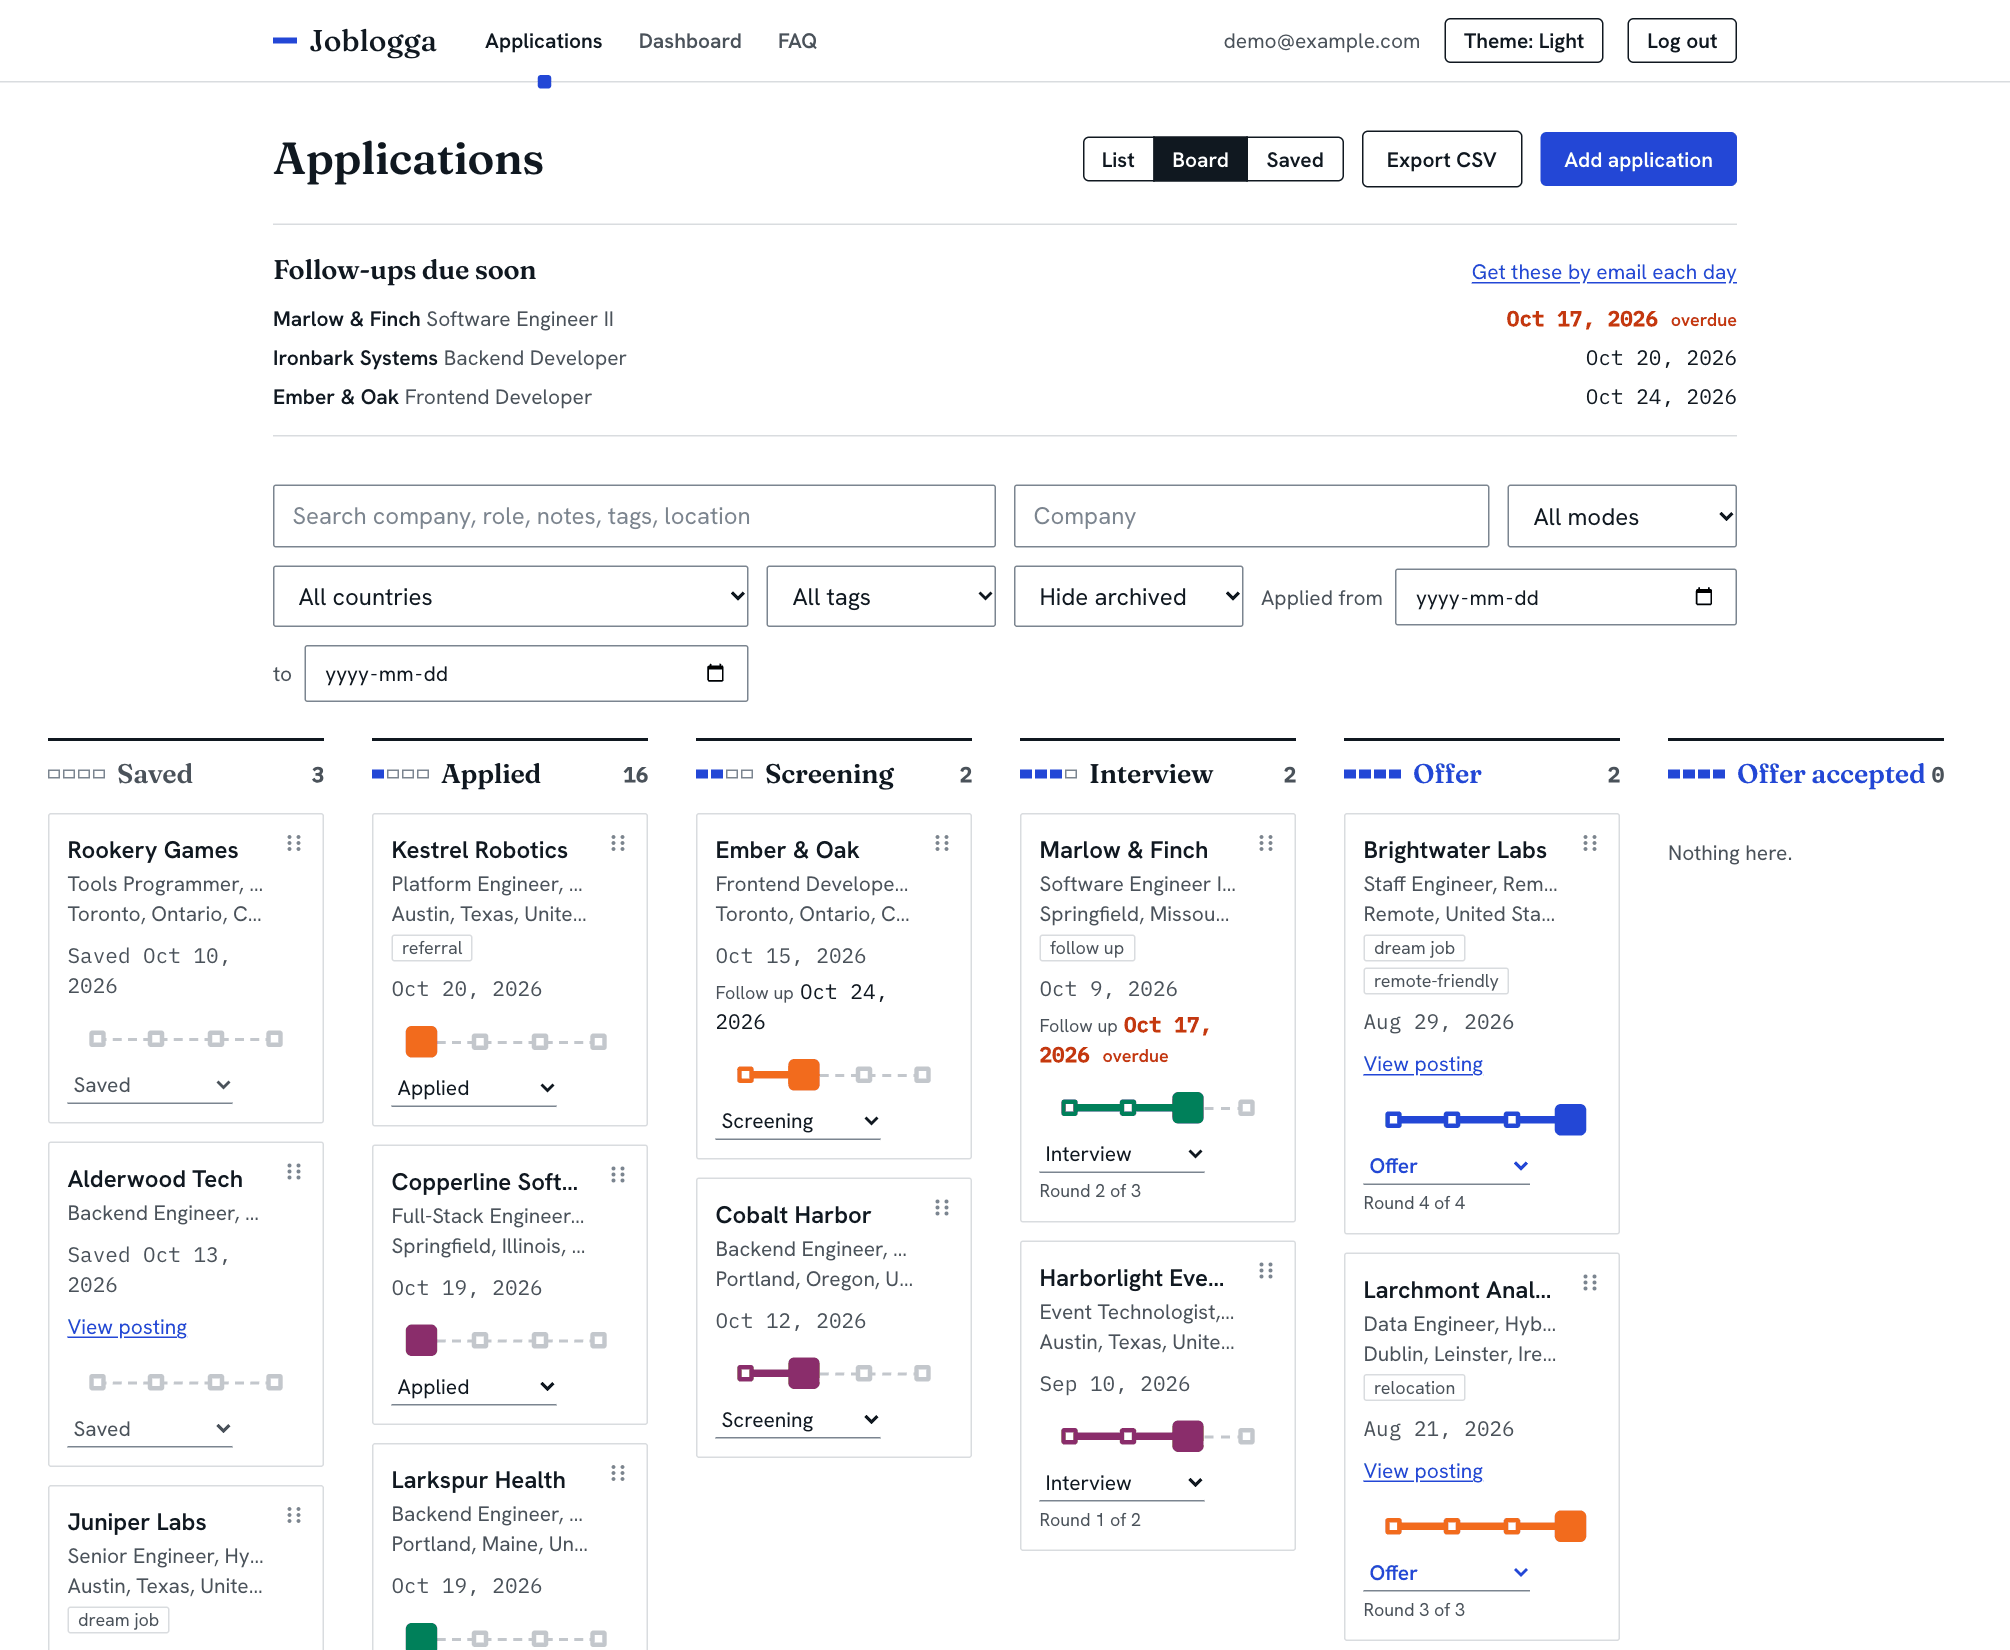
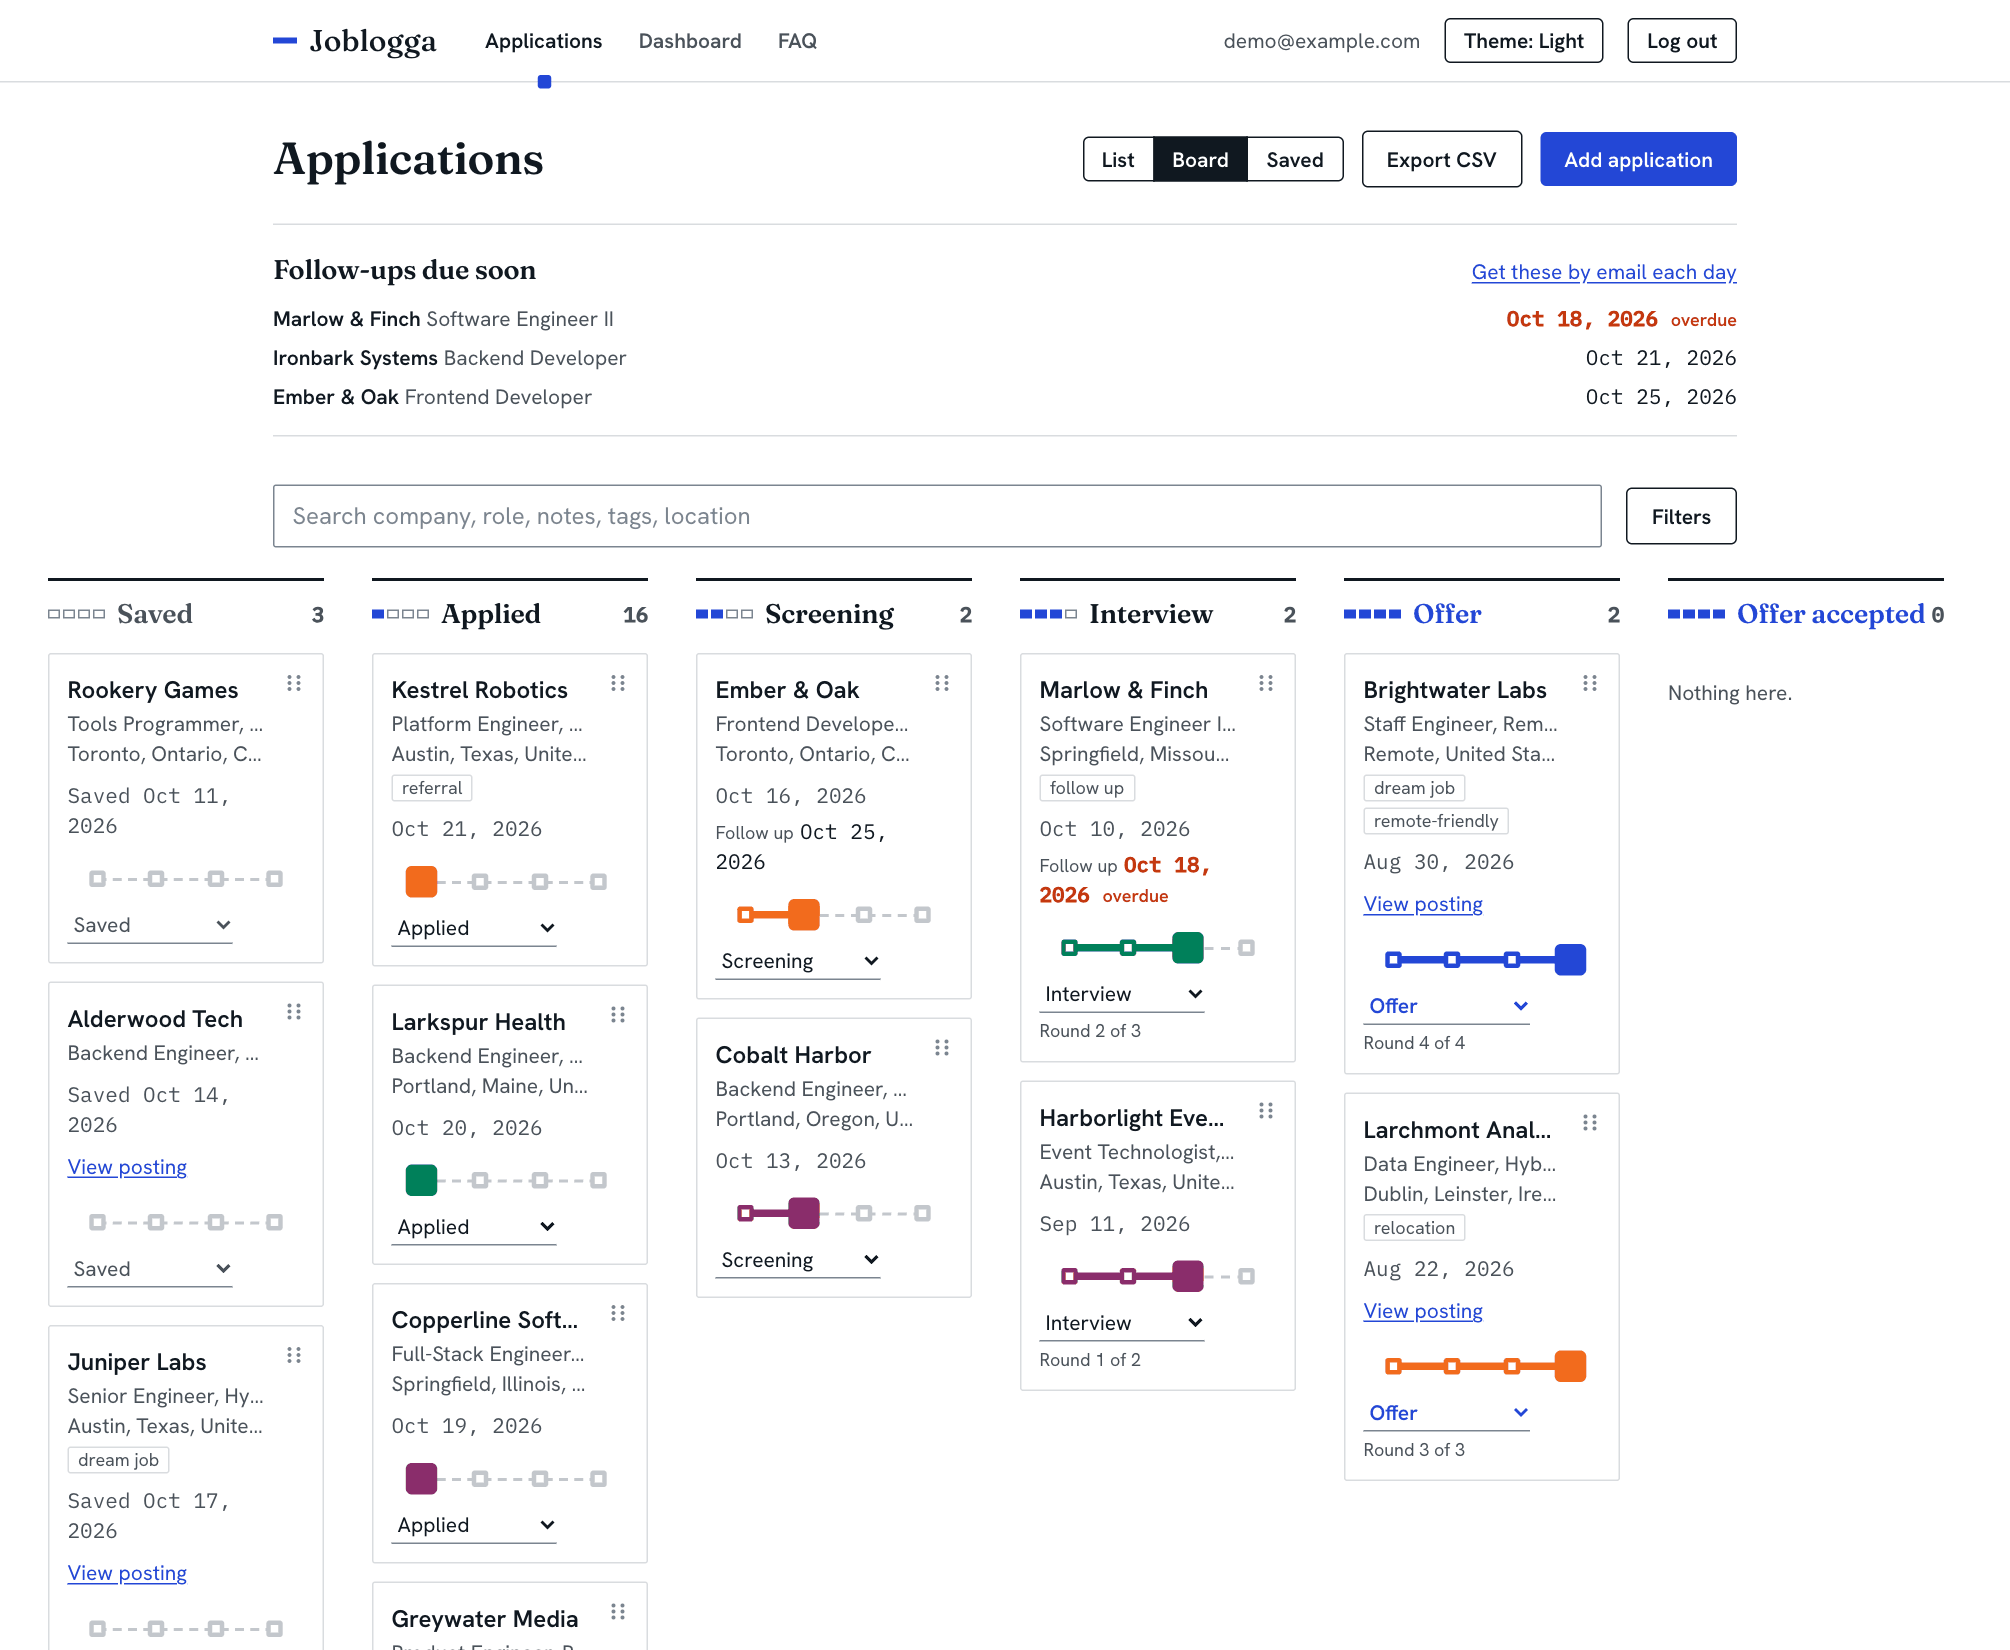
README: retake screenshots in the new look and add the application detail page

diff --git a/README.md b/README.md
@@ -73,11 +73,11 @@ A drop moves the card immediately and puts it back with an error if the server r
 
 Each picture below is shown in your GitHub theme: the light version if GitHub is light, the dark one if it is dark (where a viewer does not support that, the light one is shown). They come from a demo account with made-up companies, seeded by [`docs/screenshots/seed_demo.py`](docs/screenshots/seed_demo.py), and can be retaken after a release by following the [short note beside it](docs/screenshots/README.md).
 
-**Applications list.** Each application is a route with four stops, so you see where it stands (and, for a closed one, how far it got) at a glance: the place (a city name used in several states, like Springfield or Portland, is told apart by its state), tags, and follow-ups that are due or overdue rise to the top.
+**Applications list.** Each application is a route with four stops, so you see where it stands (and, for a closed one, how far it got) at a glance. Only the search box and a Filters button sit above the list; the button opens a panel with the other filters and shows how many are on. Each row also shows the place (a city name used in several states, like Springfield or Portland, is told apart by its state), tags, and follow-ups that are due or overdue rise to the top.
 
 <picture>
   <source media="(prefers-color-scheme: dark)" srcset="docs/screenshots/applications-list-dark.png">
-  <img alt="The applications list: a follow-ups panel with one overdue date in red, search and filter controls, and a row per application with a route of four stops, a status, the applied date and tags" src="docs/screenshots/applications-list-light.png">
+  <img alt="The applications list: a follow-ups panel with one overdue date in red, a search box with a Filters button, and a row per application with a route of four stops, a status, the applied date and tags" src="docs/screenshots/applications-list-light.png">
 </picture>
 
 **Kanban board.** Drag a card to change its status (mouse, touch or keyboard). The board is a strip of columns that scrolls sideways; six are shown here.
@@ -85,6 +85,13 @@ Each picture below is shown in your GitHub theme: the light version if GitHub is
 <picture>
   <source media="(prefers-color-scheme: dark)" srcset="docs/screenshots/kanban-board-dark.png">
   <img alt="The Kanban board with a column per status (Saved, Applied, Screening, Interview, Offer, Offer accepted) and a card for each application, showing tags, interview round and an overdue follow-up" src="docs/screenshots/kanban-board-light.png">
+</picture>
+
+**Application detail.** The route sits under the title, the status history is a vertical route (newest stop on top), and the form is three stops on a line: the job, where it stands, and labels and notes. Each application keeps one line color.
+
+<picture>
+  <source media="(prefers-color-scheme: dark)" srcset="docs/screenshots/application-detail-dark.png">
+  <img alt="An application's detail page: the title, a route with four stops ending at Interview, the edit form in three sections (The job, Where it stands, Labels and notes) on a vertical line, and a contacts section and a vertical status history on the right" src="docs/screenshots/application-detail-light.png">
 </picture>
 
 **Dashboard.** This week against your weekly goal, response rate, applications per week, where applications stand, time spent in each stage, and response rate by resume version. Each chart has a table twin; the resume card is shown as its table here, where a version with too few applications reads "too few to judge" instead of a misleading percentage.

diff --git a/docs/screenshots/README.md b/docs/screenshots/README.md
@@ -37,5 +37,5 @@ python3 docs/screenshots/optimize.py
 ## Sizes and choices
 
 - Pages are shot at 1280 CSS pixels wide, at 1.5x so text stays sharp (1920 pixels in the file). The Kanban board is the exception, at 1340: it is a strip of nine columns that scrolls sideways, and 1340 ends the picture exactly after the sixth full column instead of cutting one in half.
-- The list and board are the top of the page, not the whole page. The dashboard, offers and the landing page's hero are shown whole. On the dashboard the resume-version card is shown as its table, because that is where a version with too few applications is labelled "too few to judge".
+- The list and board are the top of the page, not the whole page. The application detail shot is Marlow & Finch (an interview at round 2 of 3 with an overdue follow-up), looked up by name. The detail page, dashboard, offers and the landing page's hero are shown whole. On the dashboard the resume-version card is shown as its table, because that is where a version with too few applications is labelled "too few to judge".
 - Each page is shot in light and dark with the theme set explicitly (the Theme button's saved choice), not left to the system preference. The landing page has one version, since its two themes differ only in colour.

diff --git a/CHANGELOG.md b/CHANGELOG.md
@@ -18,6 +18,7 @@ Versions follow [semantic versioning](https://semver.org). Details of the reason
 
 ### Added
 
+- A README picture of the application detail page, in light and dark, and all other README screenshots retaken in the new look.
 - Applications carry a `furthest_stage` (0 to 4), worked out from their status history, so a closed application can show how far it got. It is loaded in one extra query for the list and is not stored.
 
 ### Not changed
